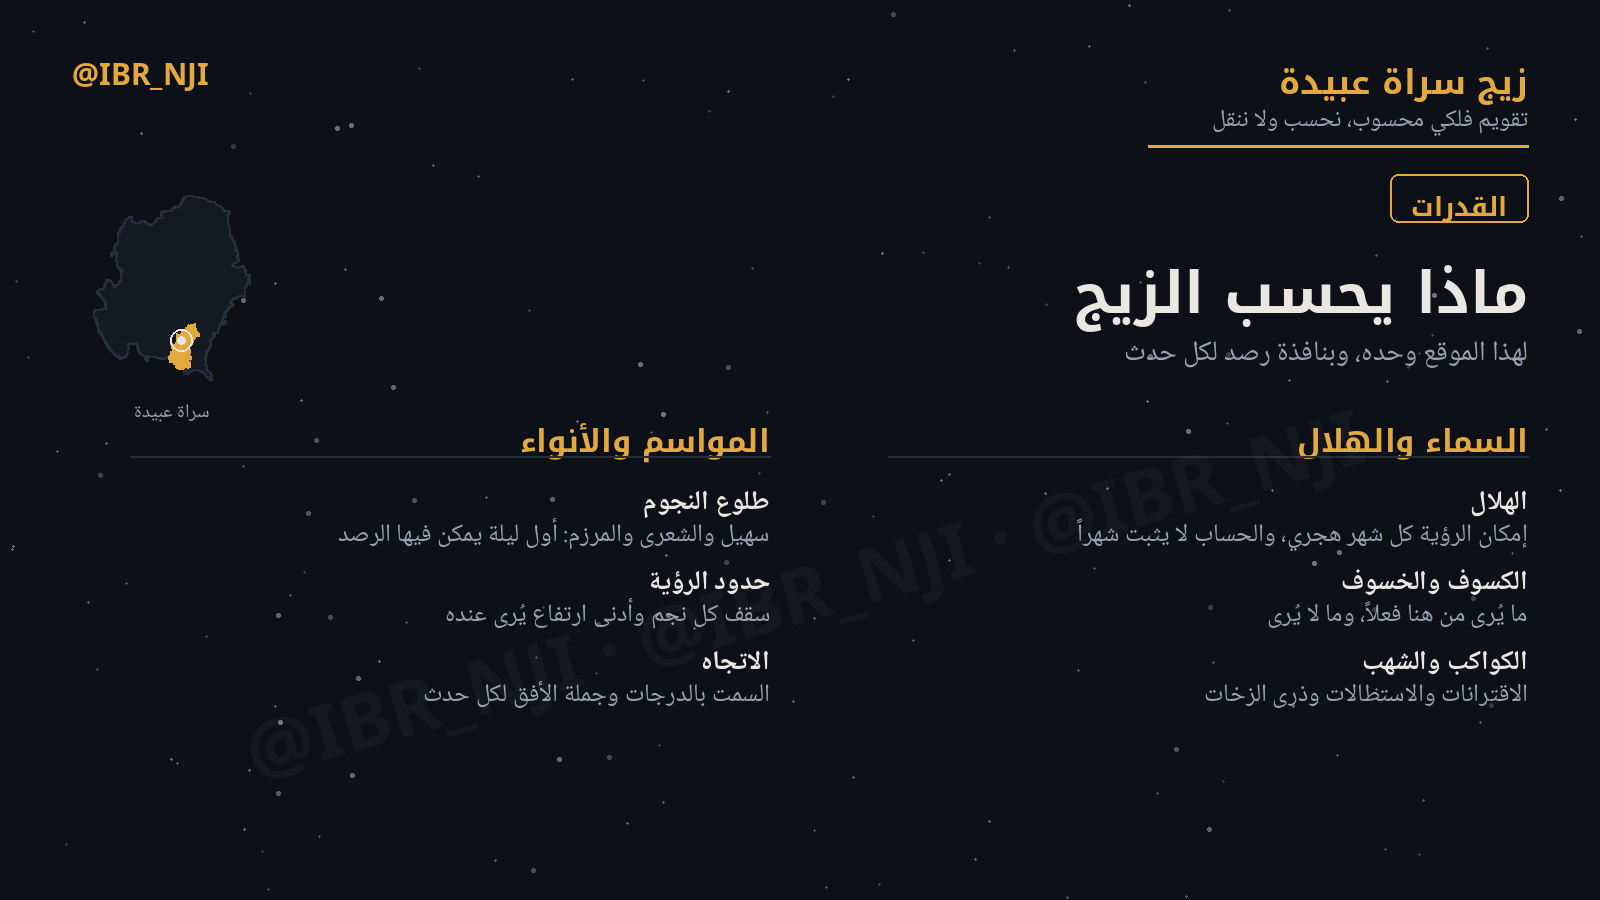
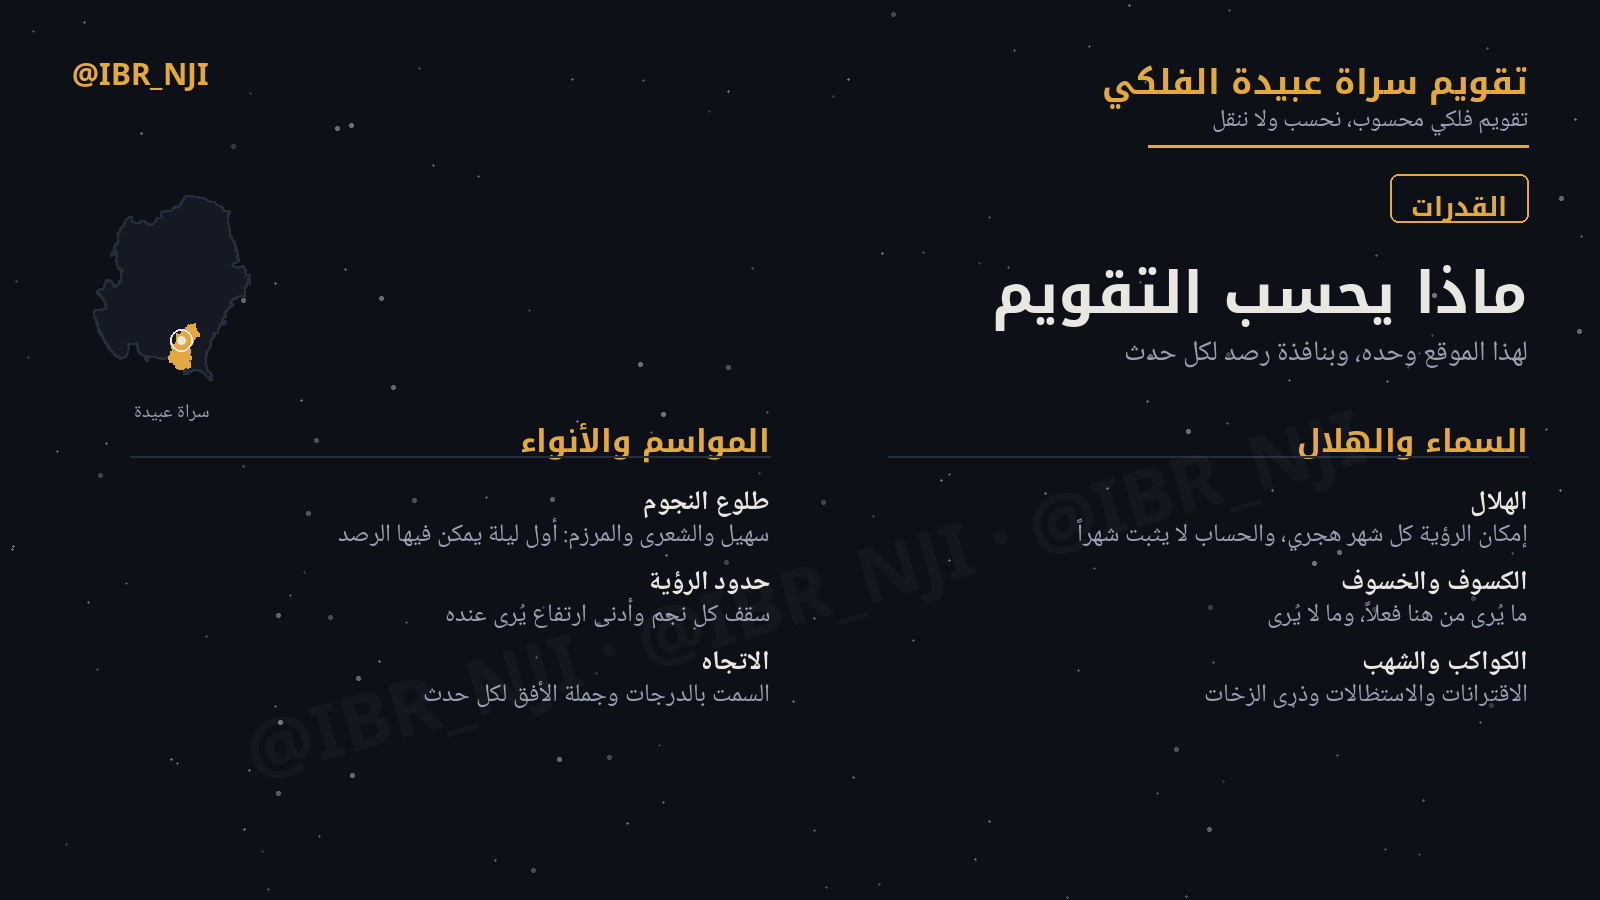
تغيير الاسم إلى تقويم سراة عبيدة الفلكي

Changed region(s): [[0.6875, 0.0622, 0.9688, 0.1244], [0.625, 0.28, 0.75, 0.3733], [0.7812, 0.3111, 0.8438, 0.3422]]

diff --git a/index.html b/index.html
@@ -3,9 +3,9 @@
 <head>
 <meta charset="utf-8">
 <meta name="viewport" content="width=device-width, initial-scale=1">
-<title>زيج سراة عبيدة — تقويم فلكي محسوب</title>
+<title>تقويم سراة عبيدة الفلكي — تقويم فلكي محسوب</title>
 <meta name="description" content="جداول فلكية تخص منطقة سراة عبيدة: تُحسب لخط عرض 18.1° وارتفاع 2360 متراً، وتُعاير على تواريخ الأنواء المتوارثة، ويُتحقق منها مقابل JPL Horizons.">
-<meta property="og:title" content="زيج سراة عبيدة">
+<meta property="og:title" content="تقويم سراة عبيدة الفلكي">
 <meta property="og:description" content="تقويم فلكي محسوب — نحسب ولا ننقل">
 <meta property="og:image" content="cards/hero_dark.png">
 <meta property="og:type" content="website">
@@ -100,12 +100,12 @@ footer{border-top:1px solid var(--line);padding-top:1.6rem;color:var(--muted);
 
 <header>
   <div class="eyebrow">تقويم فلكي محلي محسوب</div>
-  <h1>زيج سراة عبيدة</h1>
+  <h1>تقويم سراة عبيدة الفلكي</h1>
   <div class="rule"></div>
   <p class="tag">جداول فلكية تخص منطقة سراة عبيدة — تُحسب لخط عرض
     <span class="num">18.0993°</span> شمالاً وارتفاع <span class="num">2360</span> متراً،
     وتُعايَر على تواريخ الأنواء المتوارثة، ويُتحقَّق منها مقابل مرصد جت بروبلجن.</p>
-  <img class="hero-img" src="cards/hero_dark.png" alt="بطاقة التعريف بزيج سراة عبيدة">
+  <img class="hero-img" src="cards/hero_dark.png" alt="بطاقة التعريف بتقويم سراة عبيدة الفلكي">
 </header>
 
 <div class="promise">
@@ -122,10 +122,10 @@ footer{border-top:1px solid var(--line);padding-top:1.6rem;color:var(--muted);
 </div>
 
 <section>
-  <h2>ما «الزيج»؟</h2>
-  <p>مصطلح فلكي دقيق لا استعارة: <strong>جداول تُحسب لبلدٍ بعينه، وتُعايَر على
-    أرصاد أهله.</strong> كزيج البتاني، والزيج الحاكمي، وزيج أُلُغ بيك — وكلٌّ منها
-    حُسب لموضعه وزمانه، ولم يُنقل عن غيره.</p>
+  <h2>ما التقويم المحلي؟</h2>
+  <p>ليس اصطلاحاً جديداً: <strong>جداول تُحسب لخط عرض بلدٍ بعينه، وتُعايَر على
+    أرصاد أهله.</strong> وهذا صنيع الفلكيين الأوائل — البتاني وأُلُغ بيك وغيرهما —
+    فكلٌّ حسب لموضعه وزمانه، ولم ينقل عن غيره.</p>
 </section>
 
 <figure class="verse">
@@ -135,7 +135,7 @@ footer{border-top:1px solid var(--line);padding-top:1.6rem;color:var(--muted);
   </blockquote>
   <figcaption>
     <span class="src">أبو الحسن أحمد بن أيوب البصري، المعروف بالناهي<br>يتيمة الدهر · الثعالبي (ت ٤٢٩ هـ)</span>
-    شكوى قديمة من زيجٍ يُنقل ولا يُحسب — فيفسد التقويم بفساده.
+    شكوى قديمة من تقويمٍ يُنقل ولا يُحسب، فيفسد بفساد أصله.
     <strong>وهذا بعينه ما نعالجه.</strong>
   </figcaption>
 </figure>
@@ -254,7 +254,7 @@ footer{border-top:1px solid var(--line);padding-top:1.6rem;color:var(--muted);
 
 <footer>
   <a class="handle" href="https://x.com/IBR_NJI" target="_blank" rel="noopener">@IBR_NJI</a>
-  <div>زيج سراة عبيدة · نحسب ولا ننقل</div>
+  <div>تقويم سراة عبيدة الفلكي · نحسب ولا ننقل</div>
   <div class="muted">الحدود الإدارية من خرائط الشارع المفتوحة برخصة ODbL ·
     تقويم الكواكب JPL DE440s · مواقع النجوم Hipparcos</div>
 </footer>
